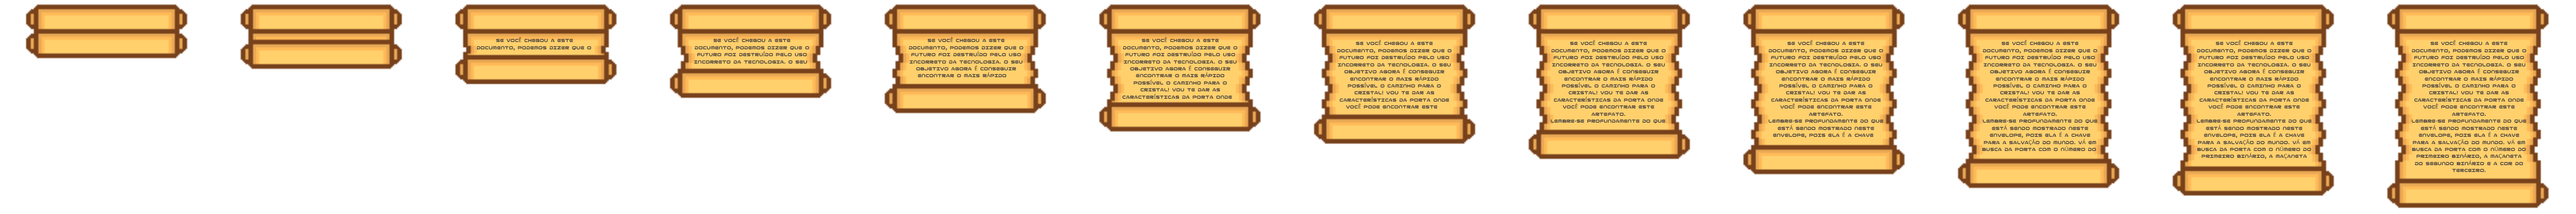
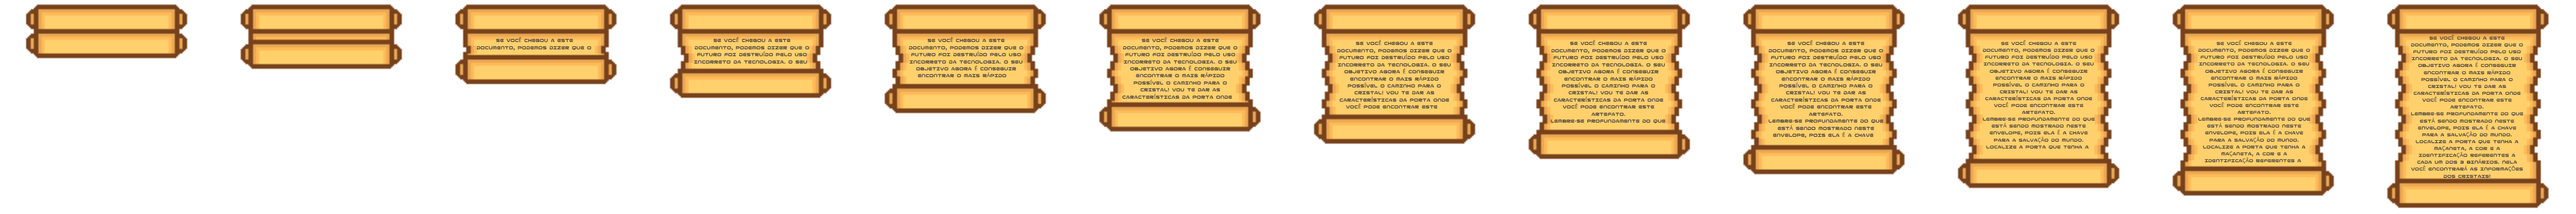
Ajustes do pergaminho da fase 1

Changed region(s): [[0.8434, 0.1781, 0.9059, 0.7717], [0.9371, 0.1484, 0.9996, 0.8311], [0.7497, 0.1781, 0.8122, 0.7123]]

diff --git a/assets/Objetos/faseUm/objetivos_metas_kpis_corrigidos.html b/assets/Objetos/faseUm/objetivos_metas_kpis_corrigidos.html
@@ -1,0 +1,196 @@
+
+<style>
+* { box-sizing: border-box; margin: 0; padding: 0; }
+.wrap { padding: 1rem 0; font-family: var(--font-sans); color: var(--color-text-primary); }
+.block-title { font-size: 16px; font-weight: 500; margin: 1.5rem 0 0.9rem; display: flex; align-items: center; gap: 10px; }
+.block-num { width: 24px; height: 24px; border-radius: 50%; display: flex; align-items: center; justify-content: center; font-size: 12px; font-weight: 500; flex-shrink: 0; }
+.card { border: 0.5px solid var(--color-border-tertiary); border-radius: 12px; padding: 15px 17px; margin-bottom: 10px; background: var(--color-background-primary); }
+.card-title { font-size: 13px; font-weight: 500; margin-bottom: 5px; }
+.card-body { font-size: 13px; color: var(--color-text-secondary); line-height: 1.6; }
+.obj-accent { border-left: 3px solid; border-radius: 0 10px 10px 0; padding-left: 14px; }
+.obj-eng { border-color: #7F77DD; }
+.obj-ret { border-color: #1D9E75; }
+.obj-inov { border-color: #378ADD; }
+.obj-ibm { border-color: #D85A30; }
+.meta-card { border: 0.5px solid var(--color-border-tertiary); border-radius: 12px; padding: 15px 17px; margin-bottom: 10px; background: var(--color-background-primary); }
+.meta-statement { font-size: 13px; font-weight: 500; background: var(--color-background-secondary); border-radius: 8px; padding: 10px 13px; margin-bottom: 10px; line-height: 1.6; }
+.smart-row { display: flex; gap: 6px; flex-wrap: wrap; margin-bottom: 10px; }
+.smart-pill { font-size: 11px; padding: 2px 9px; border-radius: 10px; border: 0.5px solid var(--color-border-tertiary); color: var(--color-text-secondary); background: var(--color-background-secondary); }
+.smart-pill b { color: var(--color-text-primary); font-weight: 500; }
+.kpi-row { display: grid; grid-template-columns: repeat(auto-fill, minmax(0, 1fr)); gap: 0; }
+.kpi-table { width: 100%; font-size: 12px; border-collapse: collapse; }
+.kpi-table th { text-align: left; padding: 7px 10px; font-weight: 500; font-size: 11px; color: var(--color-text-secondary); border-bottom: 0.5px solid var(--color-border-tertiary); text-transform: uppercase; letter-spacing: .04em; }
+.kpi-table td { padding: 8px 10px; vertical-align: top; border-bottom: 0.5px solid var(--color-border-tertiary); font-size: 12px; color: var(--color-text-secondary); line-height: 1.5; }
+.kpi-table tr:last-child td { border-bottom: none; }
+.kpi-name { font-weight: 500; color: var(--color-text-primary); font-size: 12px; }
+.tag { font-size: 11px; padding: 1px 7px; border-radius: 4px; display: inline-block; }
+.tag-eng { background: #EEEDFE; color: #534AB7; }
+.tag-ret { background: #E1F5EE; color: #0F6E56; }
+.tag-sat { background: #E6F1FB; color: #185FA5; }
+.tag-ibm { background: #FAECE7; color: #993C1D; }
+.divider { height: 0.5px; background: var(--color-border-tertiary); margin: 6px 0; }
+</style>
+<div class="wrap">
+
+<div class="block-title">
+  <div class="block-num" style="background:#EEEDFE;color:#534AB7;">1</div>
+  Objetivos estratégicos
+</div>
+
+<div class="card obj-accent obj-eng">
+  <div class="card-title">Aumentar o engajamento de jovens com baixo letramento em IA</div>
+  <p class="card-body">Oferecer uma experiência de aprendizagem ativa que substitua o modelo passivo de cursos assíncronos, reduzindo as taxas de abandono típicas de plataformas de e-learning.</p>
+</div>
+<div class="card obj-accent obj-ret">
+  <div class="card-title">Melhorar a retenção e transferência de conhecimento introdutório de IA</div>
+  <p class="card-body">Garantir que os conceitos de machine learning, classificação de dados e IA generativa ensinados no jogo sejam compreendidos e aplicáveis em contextos reais, não apenas decorados para avançar de fase.</p>
+</div>
+<div class="card obj-accent obj-inov">
+  <div class="card-title">Criar uma experiência educacional inovadora alinhada ao ecossistema IBM SkillsBuild</div>
+  <p class="card-body">Desenvolver um produto que funcione como canal de entrada para o SkillsBuild, ampliando o alcance do currículo IBM a um público que normalmente não iniciaria um curso formal de IA.</p>
+</div>
+<div class="card obj-accent obj-ibm">
+  <div class="card-title">Despertar interesse sustentado pela área de Inteligência Artificial</div>
+  <p class="card-body">Provocar no usuário a percepção de que IA é acessível e relevante para sua vida profissional, incentivando continuidade de aprendizado após o jogo.</p>
+</div>
+
+<div class="block-title">
+  <div class="block-num" style="background:#E1F5EE;color:#0F6E56;">2</div>
+  Metas SMART
+</div>
+
+<div class="meta-card">
+  <div class="meta-statement">M1 — Atingir taxa de conclusão ≥ 70% dos usuários que iniciarem o MVP, medida ao fim do ciclo de testes de 8 semanas após o lançamento.</div>
+  <div class="smart-row">
+    <span class="smart-pill"><b>S</b> Conclusão do MVP por usuários iniciantes</span>
+    <span class="smart-pill"><b>M</b> ≥ 70% de conclusão</span>
+    <span class="smart-pill"><b>A</b> Atingível com gamificação e narrativa</span>
+    <span class="smart-pill"><b>R</b> Endereça diretamente evasão em cursos online</span>
+    <span class="smart-pill"><b>T</b> 8 semanas pós-lançamento</span>
+  </div>
+  <p class="card-body">Indicador primário: % de usuários que completam todas as fases do MVP. Baseline de referência: taxa média de conclusão de cursos assíncronos de IA no SkillsBuild (benchmark a ser levantado antes do lançamento).</p>
+</div>
+
+<div class="meta-card">
+  <div class="meta-statement">M2 — Reduzir a evasão entre a fase 1 e a fase final em pelo menos 30% em relação à taxa de abandono observada em cursos assíncronos equivalentes, ao término do piloto.</div>
+  <div class="smart-row">
+    <span class="smart-pill"><b>S</b> Evasão entre fases do jogo vs. cursos tradicionais</span>
+    <span class="smart-pill"><b>M</b> ≥ 30% de redução relativa</span>
+    <span class="smart-pill"><b>A</b> Narrativa e progressão são mecanismos de retenção</span>
+    <span class="smart-pill"><b>R</b> Problema central do TAPI (evasão e desengajamento)</span>
+    <span class="smart-pill"><b>T</b> Ao término do piloto</span>
+  </div>
+  <p class="card-body">Requer levantamento de baseline de evasão em cursos assíncronos de IA para jovens (ex: dados do SkillsBuild ou literatura sobre MOOCs) antes do início dos testes.</p>
+</div>
+
+<div class="meta-card">
+  <div class="meta-statement">M3 — Atingir média de acerto ≥ 65% nos pós-testes de cada módulo, aplicados imediatamente após cada fase, com grupo de pelo menos 20 usuários no piloto.</div>
+  <div class="smart-row">
+    <span class="smart-pill"><b>S</b> Acerto em pós-testes por módulo de conteúdo</span>
+    <span class="smart-pill"><b>M</b> ≥ 65% de acerto médio</span>
+    <span class="smart-pill"><b>A</b> Conceitos introdutórios para público sem base técnica</span>
+    <span class="smart-pill"><b>R</b> Mede transferência real, não apenas progressão de jogo</span>
+    <span class="smart-pill"><b>T</b> Ao final de cada fase no piloto</span>
+  </div>
+</div>
+
+<div class="meta-card">
+  <div class="meta-statement">M4 — Obter NPS ≥ 50 ao término do MVP, coletado por questionário pós-conclusão com todos os usuários que completarem o jogo.</div>
+  <div class="smart-row">
+    <span class="smart-pill"><b>S</b> Satisfação e percepção de valor do usuário</span>
+    <span class="smart-pill"><b>M</b> NPS ≥ 50 (escala padrão -100 a +100)</span>
+    <span class="smart-pill"><b>A</b> Referência de produtos educacionais digitais bem avaliados</span>
+    <span class="smart-pill"><b>R</b> Alinha com meta de experiência inovadora e recomendação</span>
+    <span class="smart-pill"><b>T</b> Término do MVP</span>
+  </div>
+</div>
+
+<div class="meta-card">
+  <div class="meta-statement">M5 — 40% dos usuários que concluírem o jogo devem acessar ao menos um módulo do IBM SkillsBuild nos 30 dias seguintes, rastreado por link de redirecionamento interno.</div>
+  <div class="smart-row">
+    <span class="smart-pill"><b>S</b> Conversão para o ecossistema SkillsBuild</span>
+    <span class="smart-pill"><b>M</b> ≥ 40% de acesso em 30 dias</span>
+    <span class="smart-pill"><b>A</b> Link de redirecionamento ao fim do jogo viabiliza rastreamento</span>
+    <span class="smart-pill"><b>R</b> Objetivo estratégico de ampliar alcance do SkillsBuild</span>
+    <span class="smart-pill"><b>T</b> 30 dias após conclusão</span>
+  </div>
+</div>
+
+<div class="block-title">
+  <div class="block-num" style="background:#E6F1FB;color:#185FA5;">3</div>
+  Indicadores (KPIs)
+</div>
+
+<div class="card" style="padding:0;overflow:hidden;">
+<table class="kpi-table">
+  <thead>
+    <tr>
+      <th style="width:22%;">KPI</th>
+      <th style="width:10%;">Foco</th>
+      <th style="width:30%;">Fórmula / Forma de medição</th>
+      <th style="width:18%;">Meta-alvo</th>
+      <th style="width:20%;">Frequência</th>
+    </tr>
+  </thead>
+  <tbody>
+    <tr>
+      <td><span class="kpi-name">Taxa de conclusão</span></td>
+      <td><span class="tag tag-eng">Engaj.</span></td>
+      <td>Usuários que completam todas as fases ÷ usuários que iniciam × 100</td>
+      <td>≥ 70%</td>
+      <td>Ao término do piloto</td>
+    </tr>
+    <tr>
+      <td><span class="kpi-name">Taxa de evasão entre fases</span></td>
+      <td><span class="tag tag-eng">Engaj.</span></td>
+      <td>Usuários que abandonam antes da fase final ÷ total de iniciantes × 100</td>
+      <td>≤ 30% vs. baseline</td>
+      <td>Por fase, acumulado</td>
+    </tr>
+    <tr>
+      <td><span class="kpi-name">Acerto em pós-teste por módulo</span></td>
+      <td><span class="tag tag-ret">Aprendiz.</span></td>
+      <td>Média de respostas corretas nos testes pós-fase ÷ total de questões × 100</td>
+      <td>≥ 65%</td>
+      <td>Ao fim de cada fase</td>
+    </tr>
+    <tr>
+      <td><span class="kpi-name">Delta pré/pós-teste</span></td>
+      <td><span class="tag tag-ret">Aprendiz.</span></td>
+      <td>Acerto pós-teste − acerto pré-teste por usuário (média do grupo)</td>
+      <td>+25 p.p. mínimo</td>
+      <td>Piloto completo</td>
+    </tr>
+    <tr>
+      <td><span class="kpi-name">Tempo médio de sessão</span></td>
+      <td><span class="tag tag-eng">Engaj.</span></td>
+      <td>Duração total de uso ÷ número de sessões iniciadas (média por usuário)</td>
+      <td>≥ 15 min/sessão</td>
+      <td>Semanal</td>
+    </tr>
+    <tr>
+      <td><span class="kpi-name">Taxa de retorno</span></td>
+      <td><span class="tag tag-eng">Engaj.</span></td>
+      <td>Usuários que acessam o jogo em mais de uma sessão ÷ total de usuários × 100</td>
+      <td>≥ 60%</td>
+      <td>7 dias após 1ª sessão</td>
+    </tr>
+    <tr>
+      <td><span class="kpi-name">NPS do produto</span></td>
+      <td><span class="tag tag-sat">Satisf.</span></td>
+      <td>% promotores (9–10) − % detratores (0–6), escala padrão</td>
+      <td>≥ 50</td>
+      <td>Pós-conclusão</td>
+    </tr>
+    <tr>
+      <td><span class="kpi-name">Conversão para SkillsBuild</span></td>
+      <td><span class="tag tag-ibm">IBM</span></td>
+      <td>Usuários que acessam SkillsBuild via link do jogo ÷ usuários que concluem × 100</td>
+      <td>≥ 40%</td>
+      <td>30 dias pós-conclusão</td>
+    </tr>
+  </tbody>
+</table>
+</div>
+
+</div>

diff --git a/src/scenes/sceneLBPassado.js b/src/scenes/sceneLBPassado.js
@@ -157,9 +157,9 @@ export class sceneLBPassado extends Phaser.Scene {
     this.physics.add.collider(this.Principal, this.npc4);
 
     if (!this.anims.exists("npc1_idle")) {
-      this.anims.create({ key: "npc1_idle", frames: this.anims.generateFrameNumbers("npc1", { start: 0, end: 8 }), frameRate: 2, repeat: -1 });
-      this.anims.create({ key: "npc2_idle", frames: this.anims.generateFrameNumbers("npc2", { start: 0, end: 16 }), frameRate: 2, repeat: -1 });
-      this.anims.create({ key: "npc3_idle", frames: this.anims.generateFrameNumbers("npc3", { start: 0, end: 20 }), frameRate: 2, repeat: -1 });
+      this.anims.create({ key: "npc1_idle", frames: this.anims.generateFrameNumbers("npc1", { start: 0, end: 8 }), frameRate: 4, repeat: -1 });
+      this.anims.create({ key: "npc2_idle", frames: this.anims.generateFrameNumbers("npc2", { start: 0, end: 16 }), frameRate: 4, repeat: -1 });
+      this.anims.create({ key: "npc3_idle", frames: this.anims.generateFrameNumbers("npc3", { start: 0, end: 20 }), frameRate: 4, repeat: -1 });
     }
     this.npc1.play("npc1_idle");
     this.npc2.play("npc2_idle");

diff --git a/src/scenes/FaseUm.js b/src/scenes/FaseUm.js
@@ -72,7 +72,7 @@ export class faseUm extends Phaser.Scene {
         this.overlay = this.add.rectangle(0, 0, width * 3, height, 0x000000).setOrigin(0, 0).setScrollFactor(0).setDepth(100); //retangulo grande e preto para escurecer a tela no momento de abertura do baú
         this.overlay.alpha = 0; //transparência total
         this.envelope = this.add.sprite(width / 2, height + 200, "envelope", 0).setScale(1.5).setScrollFactor(0).setDepth(101).setVisible(false).setInteractive(); //o setInteractive ativa a detecção de entrada(cliques)
-        this.pergaminho = this.add.sprite(width - 500, height / 2, "pergaminho", 0).setScale(2).setScrollFactor(0).setDepth(102).setVisible(true);
+        this.pergaminho = this.add.sprite(width - 500, height / 2, "pergaminho", 0).setScale(2).setScrollFactor(0).setDepth(102).setVisible(false);
 
         //============================================================================ PRECISA CORRIGIR
         this.obstaculosCaixaColisao = null;

diff --git a/src/scenes/scenePreFase4.js b/src/scenes/scenePreFase4.js
@@ -1,4 +1,4 @@
-/*Esta cenca consiste em um momento de transição entre fases, no qual o jogador sai do minigame de plataformas(fase3), sai da sala das 
+/*Esta cena consiste em um momento de transição entre fases, no qual o jogador sai do minigame de plataformas(fase3), sai da sala das 
 portas e vem para o HUB do cristal e agora precisa fabricar o cristal, mas para isso ele precisa treinar uma IA generativa e o 
 minigame consiste na limpeza dos ruídos*/
 
